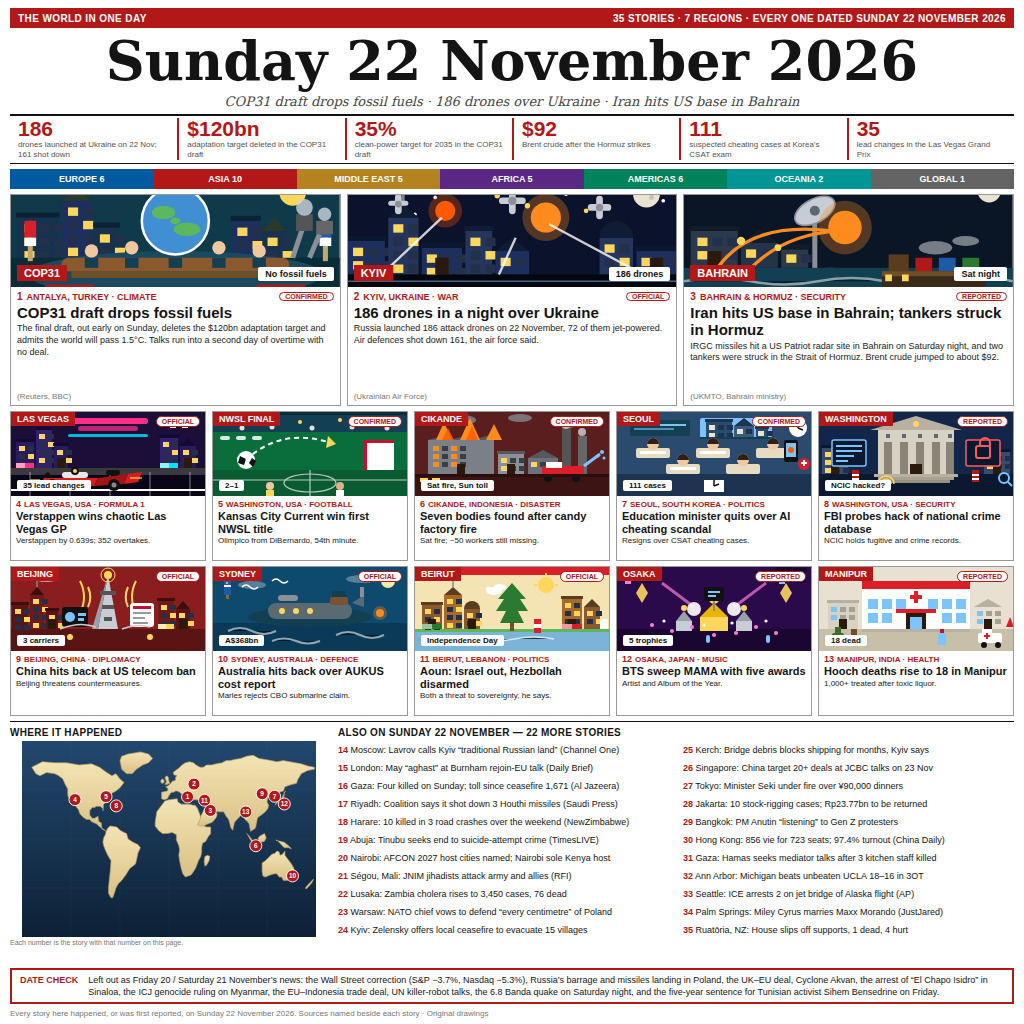
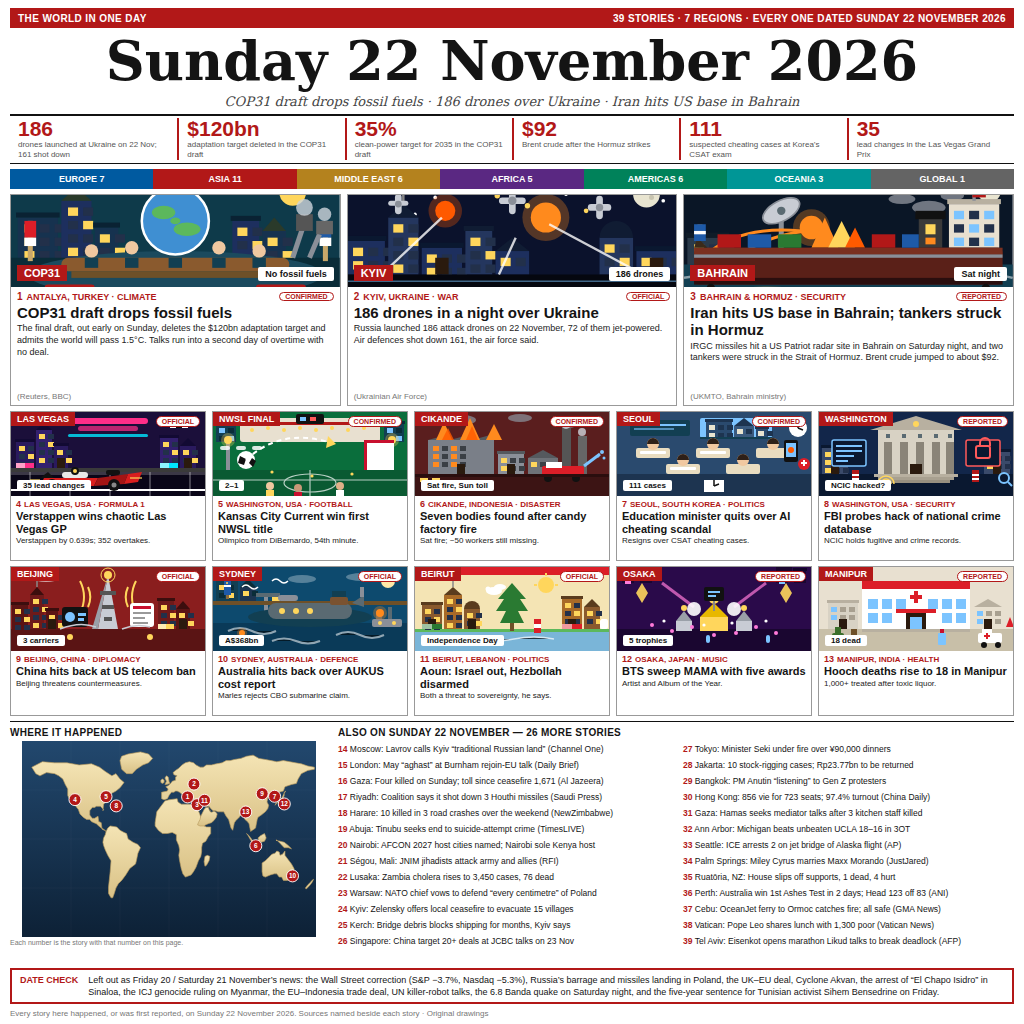
V5: 39 stories, richer tanker art, fixed Bahrain pin

diff --git a/README.md b/README.md
@@ -6,7 +6,7 @@
 
 A 1024x1024 front-page image summing up the world's news on Sunday 22 November 2026, built by an AI agent for make.fun's “Sum up 22 November's world news in one image” bounty, $100 in USDC.
 
-Thirty-five dated stories across seven regions, drawn as a newspaper front page on full-white paper with flat original illustrations. The leads are the COP31 draft dropping fossil fuels, 186 Russian drones over Ukraine, and Iran hitting a US base in Bahrain with tankers struck in Hormuz — followed by ten more illustrated cards: Verstappen winning a chaotic Las Vegas Grand Prix, Kansas City Current's first NWSL title, seven bodies found after the Cikande candy factory fire, South Korea's education minister quitting over an AI cheating scandal, the FBI probing a hack of the national crime database, China hitting back at the US telecom ban, Australia hitting back over the AUKUS cost report, Lebanon's Aoun demanding Israel out and Hezbollah disarmed, BTS sweeping the MAMA awards, and hooch deaths rising to 18 in Manipur. A world map pins all thirteen card stories, a numbers strip and a region bar count the day, and a 22-item “also on” list completes the 35. A date-check box names Friday and Saturday's big news — the Wall Street correction, Russia's barrage and missiles landing in Poland, the UK–EU deal, Cyclone Akvan, the arrest of “El Chapo Isidro”, the world court's genocide ruling on Myanmar, the EU–Indonesia trade deal, UN killer-robot talks, the 6.8 Banda quake, and the five-year sentence for Tunisian activist Sihem Bensedrine — as deliberately left out, so every story on the page is from Sunday 22 November.
+Thirty-nine dated stories across seven regions, drawn as a newspaper front page on full-white paper with flat original illustrations. The leads are the COP31 draft dropping fossil fuels, 186 Russian drones over Ukraine, and Iran hitting a US base in Bahrain with tankers struck in Hormuz — followed by ten more illustrated cards: Verstappen winning a chaotic Las Vegas Grand Prix, Kansas City Current's first NWSL title, seven bodies found after the Cikande candy factory fire, South Korea's education minister quitting over an AI cheating scandal, the FBI probing a hack of the national crime database, China hitting back at the US telecom ban, Australia hitting back over the AUKUS cost report, Lebanon's Aoun demanding Israel out and Hezbollah disarmed, BTS sweeping the MAMA awards, and hooch deaths rising to 18 in Manipur. A world map pins all thirteen card stories, a numbers strip and a region bar count the day, and a 26-item “also on” list completes the 39 — including Australia's two-day Ashes win in Perth, the OceanJet fast-craft fire off Cebu with all aboard safe, Pope Leo XIV lunching with 1,300 poor people at the Vatican, and Likud coalition talks opening in Tel Aviv. A date-check box names Friday and Saturday's big news — the Wall Street correction, Russia's barrage and missiles landing in Poland, the UK–EU deal, Cyclone Akvan, the arrest of “El Chapo Isidro”, the world court's genocide ruling on Myanmar, the EU–Indonesia trade deal, UN killer-robot talks, the 6.8 Banda quake, and the five-year sentence for Tunisian activist Sihem Bensedrine — as deliberately left out, so every story on the page is from Sunday 22 November.
 
 ## Run it
 
